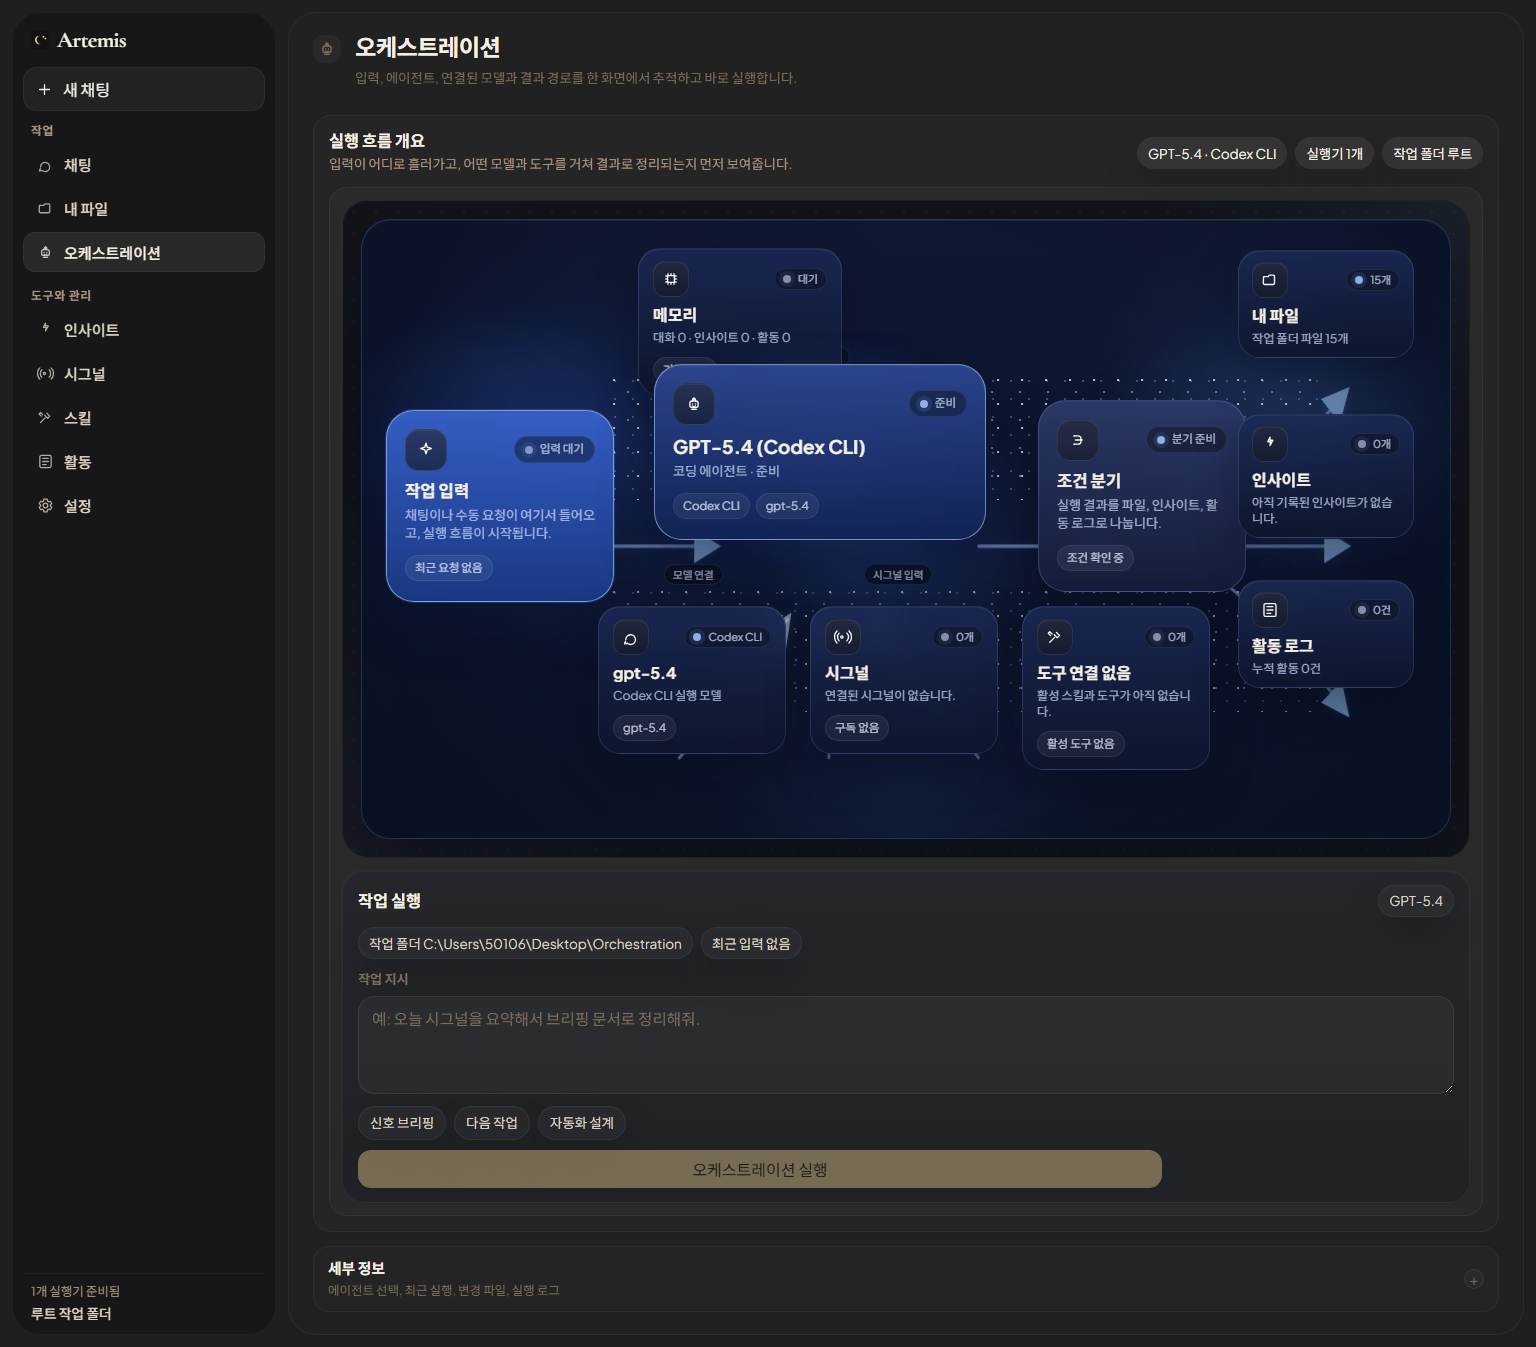
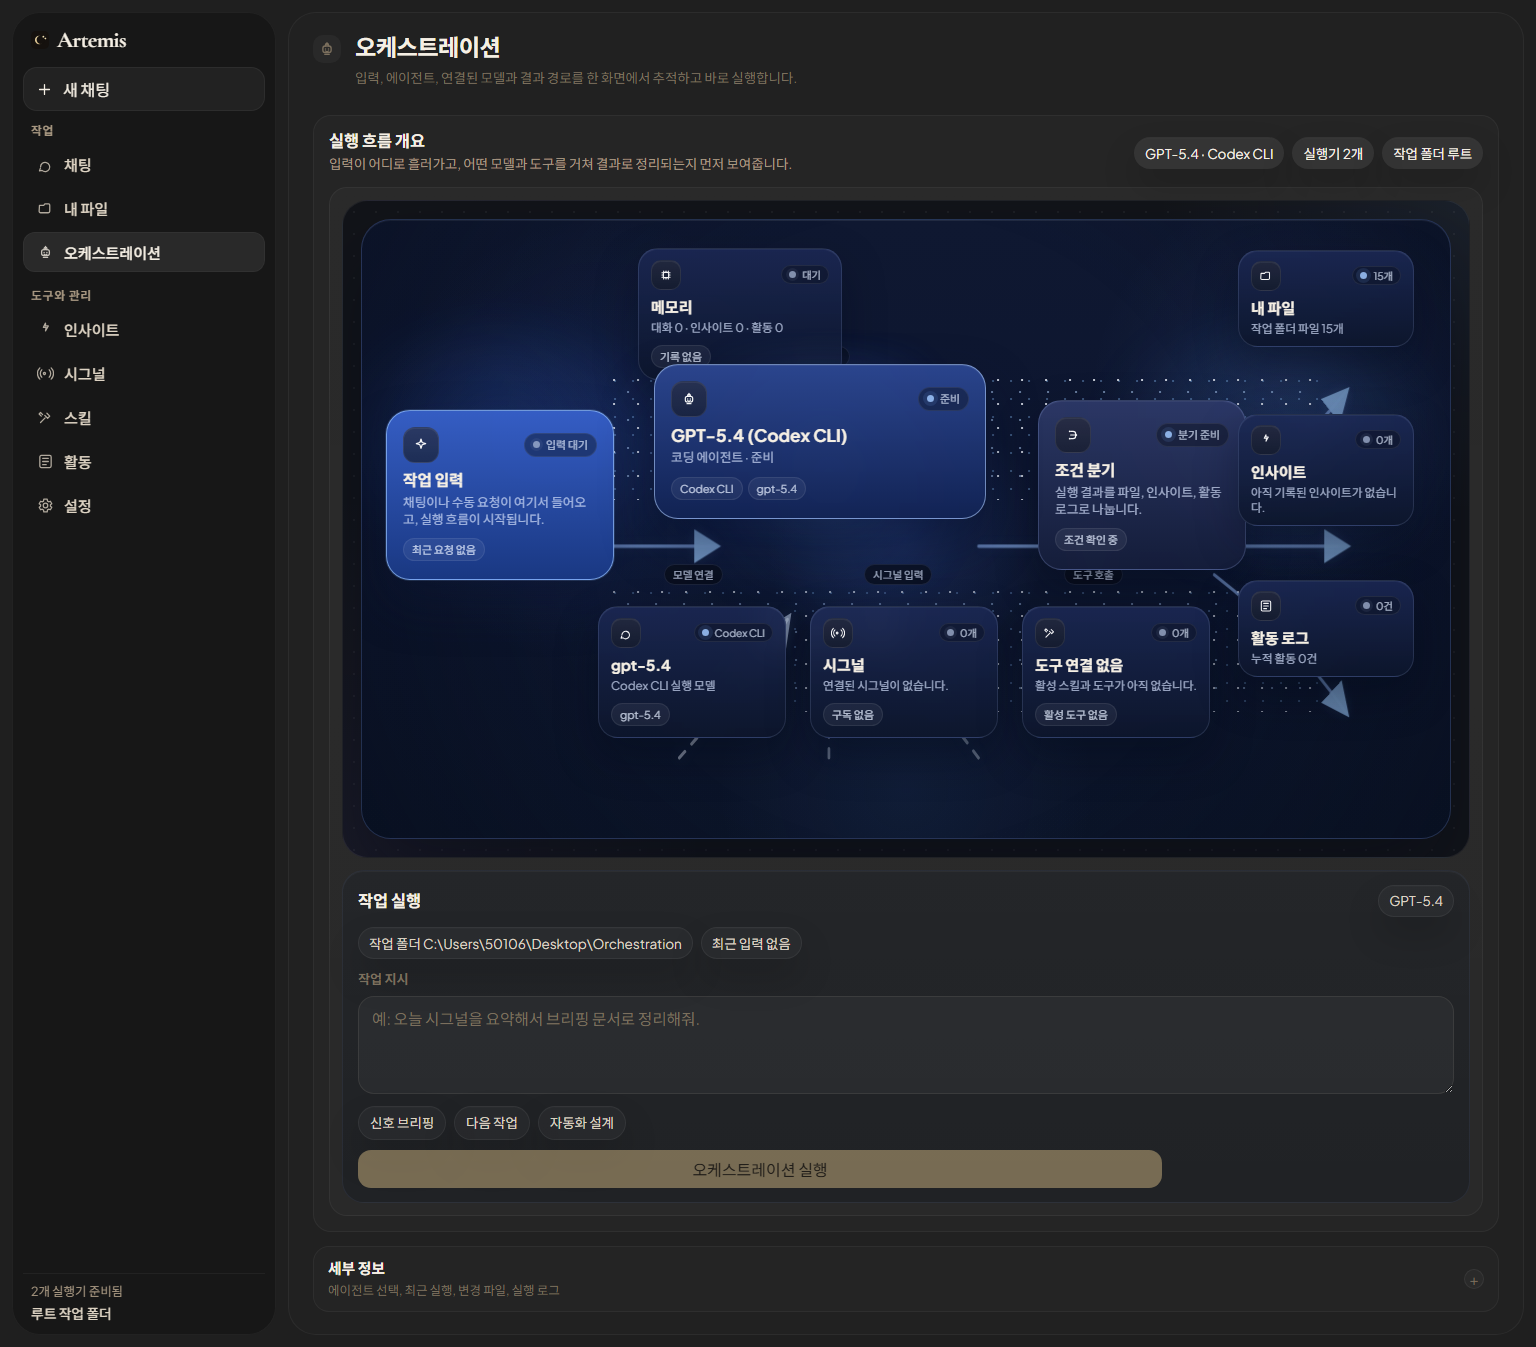
fix: restore ollama readiness and tighten orchestration visuals

diff --git a/src/App.css b/src/App.css
@@ -5031,19 +5031,19 @@ select:focus-visible {
 
 .flow-graph__node--main {
   min-height: 0;
-  padding: 18px 18px 20px;
-  border-radius: 28px;
+  padding: 16px 16px 18px;
+  border-radius: 24px;
 }
 
 .flow-graph__node--support,
 .flow-graph__node--output {
   min-height: 0;
-  padding: 12px 14px;
-  border-radius: 22px;
+  padding: 11px 12px;
+  border-radius: 20px;
 }
 
 .flow-graph__node--output {
-  padding: 11px 13px;
+  padding: 10px 12px;
 }
 
 .flow-graph__label {
@@ -5051,14 +5051,14 @@ select:focus-visible {
 }
 
 .flow-graph__nodeTop {
-  gap: 8px;
-  margin-bottom: 10px;
+  gap: 7px;
+  margin-bottom: 8px;
 }
 
 .flow-graph__iconWrap {
-  width: 42px;
-  height: 42px;
-  border-radius: 14px;
+  width: 36px;
+  height: 36px;
+  border-radius: 12px;
   border: 1px solid rgba(255, 255, 255, 0.08);
   background:
     linear-gradient(180deg, rgba(255, 255, 255, 0.08), rgba(255, 255, 255, 0.03)),
@@ -5069,9 +5069,9 @@ select:focus-visible {
 .flow-graph__badge {
   display: inline-flex;
   align-items: center;
-  gap: 7px;
-  padding: 6px 10px;
-  font-size: 0.72rem;
+  gap: 6px;
+  padding: 5px 8px;
+  font-size: 0.68rem;
   color: rgba(225, 235, 255, 0.72);
   border: 1px solid rgba(255, 255, 255, 0.08);
   background: rgba(7, 11, 21, 0.42);
@@ -5079,11 +5079,11 @@ select:focus-visible {
 }
 
 .flow-graph__statusDot {
-  width: 8px;
-  height: 8px;
+  width: 7px;
+  height: 7px;
   border-radius: 999px;
   background: rgba(174, 190, 220, 0.72);
-  box-shadow: 0 0 0 4px rgba(174, 190, 220, 0.08);
+  box-shadow: 0 0 0 3px rgba(174, 190, 220, 0.08);
 }
 
 .flow-graph__statusDot.is-ready {
@@ -5109,7 +5109,7 @@ select:focus-visible {
 .flow-graph__copy strong {
   display: -webkit-box;
   overflow: hidden;
-  font-size: 1.04rem;
+  font-size: 0.98rem;
   line-height: 1.2;
   -webkit-box-orient: vertical;
   -webkit-line-clamp: 1;
@@ -5118,36 +5118,36 @@ select:focus-visible {
 
 .flow-graph__node--support .flow-graph__copy strong,
 .flow-graph__node--output .flow-graph__copy strong {
-  font-size: 1rem;
+  font-size: 0.94rem;
   -webkit-line-clamp: 1;
 }
 
 .flow-graph__copy p {
   display: -webkit-box;
   overflow: hidden;
-  margin-top: 5px;
+  margin-top: 4px;
   color: rgba(211, 223, 249, 0.74);
-  font-size: 0.82rem;
-  line-height: 1.42;
+  font-size: 0.79rem;
+  line-height: 1.36;
   -webkit-box-orient: vertical;
   -webkit-line-clamp: 2;
 }
 
 .flow-graph__node--support .flow-graph__copy p,
 .flow-graph__node--output .flow-graph__copy p {
-  font-size: 0.76rem;
-  line-height: 1.34;
+  font-size: 0.73rem;
+  line-height: 1.3;
   -webkit-line-clamp: 2;
 }
 
 .flow-graph__details {
-  gap: 6px;
-  margin-top: 12px;
+  gap: 5px;
+  margin-top: 10px;
 }
 
 .flow-graph__detailChip {
-  padding: 5px 9px;
-  font-size: 0.72rem;
+  padding: 4px 8px;
+  font-size: 0.68rem;
   color: rgba(230, 238, 255, 0.78);
   border: 1px solid rgba(255, 255, 255, 0.08);
   background: rgba(255, 255, 255, 0.06);
@@ -5166,15 +5166,15 @@ select:focus-visible {
 
 .flow-graph__node--support .flow-graph__iconWrap,
 .flow-graph__node--output .flow-graph__iconWrap {
-  width: 36px;
-  height: 36px;
-  border-radius: 12px;
+  width: 30px;
+  height: 30px;
+  border-radius: 10px;
 }
 
 .flow-graph__node--support .flow-graph__badge,
 .flow-graph__node--output .flow-graph__badge {
-  padding: 4px 8px;
-  font-size: 0.68rem;
+  padding: 3px 7px;
+  font-size: 0.64rem;
 }
 
 .flow-graph__edgeLabel {
@@ -5309,7 +5309,7 @@ select:focus-visible {
 }
 
 .flow-graph__node--agent .flow-graph__copy strong {
-  font-size: 1.18rem;
+  font-size: 1.08rem;
 }
 
 @keyframes flowPulse {

diff --git a/src/OrchestrationCanvas.tsx b/src/OrchestrationCanvas.tsx
@@ -512,6 +512,7 @@ function GraphCard({
   onSelectAgent: (agentId: string) => void
 }) {
   const interactive = Boolean(node.page || node.agentId)
+  const iconSize = node.variant === 'main' ? 16 : 14
   const classes = [
     'flow-graph__node',
     `flow-graph__node--${node.tone}`,
@@ -546,7 +547,7 @@ function GraphCard({
       <small className="flow-graph__label">{node.label}</small>
       <div className="flow-graph__nodeTop">
         <span className="flow-graph__iconWrap" aria-hidden="true">
-          <Icon name={node.icon} size={18} />
+          <Icon name={node.icon} size={iconSize} />
         </span>
         <span className="flow-graph__badge">
           <span className={`flow-graph__statusDot is-${node.state}`} />

diff --git a/memory/decisions.md b/memory/decisions.md
@@ -4,13 +4,17 @@
 
 ### 2026-04-14
 
-- 이 저장소의 Hermes-style 운영은 네이티브 Hermes 설치를 가정하지 않고 `codex/ + memory/ + HERMES_CODEX.md` 구조로 재현한다.
+- 이 저장소는 Hermes를 설치한 척하지 않고 `codex/ + memory/ + HERMES_CODEX.md` 구조로 Hermes-style 운영을 재현한다.
 - 작업 루프는 항상 `inspect -> plan -> implement -> review -> verify -> update memory -> report`를 따른다.
-- 역할은 planner, implementer, reviewer, tester, memory_manager 5개로 고정한다.
-- 재사용 절차는 별도 스킬 문서로 관리한다.
-- persistent memory는 Git으로 추적되는 로컬 파일 `memory/`에 둔다.
-- 저장소 루트 `AGENTS.md`를 Hermes-style 진입 파일로 추가해 future Codex session의 시작 지침을 고정한다.
-- 오케스트레이션 화면은 데이터 구조를 유지하고 시각 계층만 강화한다.
-- 공개 소비자 웹 로그인 자동화는 구현하지 않는다.
-- 공식 API 라우팅 지원 공급자는 OpenRouter, NVIDIA Build, Gemini Developer API 3개만 유지한다.
-- 로컬 Ollama 모델은 `gemma4-E4B-uncensored-q4fast:latest` 1개만 유지한다.
+- 역할은 planner, implementer, reviewer, tester, memory_manager 다섯 개로 고정한다.
+- 지속 메모는 Git으로 추적되는 `memory/` 폴더에 저장한다.
+- 세션 진입 파일은 저장소 루트 `AGENTS.md`로 고정한다.
+- 공식 API 무료 라우팅 공급자는 OpenRouter, NVIDIA Build, Gemini Developer API 세 개만 지원한다.
+- 로컬 Ollama는 `gemma4-E4B-uncensored-q4fast:latest` 한 모델만 유지한다.
+- 오케스트레이션은 현재 저장소의 고정형 캔버스 구조를 유지하되, 시각 품질과 비율을 계속 보강한다.
+- 공개 랜딩보다 기존 Artemis 워크스페이스 UI를 우선한다.
+
+### 이번 추가 결정
+
+- Ollama 미연결처럼 보였던 문제는 로컬 모델 부재가 아니라 `4174 브리지 프로세스가 오래된 상태`였고, 브리지 재기동으로 해결한다.
+- 오케스트레이션 아이콘과 배지는 현재 그래프 경험을 해치지 않는 범위에서 한 단계 축소해 시각 밀도를 줄인다.

diff --git a/memory/project_overview.md b/memory/project_overview.md
@@ -1,40 +1,42 @@
 # Project Overview
 
-## 한 줄 설명
+## 프로젝트 설명
 
-Artemis Orchestration은 채팅, 로컬 파일 작업, 공식 API 라우팅, 시그널, 오케스트레이션 흐름을 한 화면 집합으로 묶는 로컬 중심 워크스페이스다.
+Artemis Orchestration은 채팅, 로컬 파일 작업, 공식 API 무료 라우팅, 오케스트레이션 시각화, 설정/메모 흐름을 한 화면 경험으로 묶는 Codex 기반 워크스페이스다.
 
 ## 현재 스택
 
 - 프런트엔드: React 19, TypeScript, Vite
-- 스타일: 단일 `src/App.css` 중심
-- 백엔드 브리지: `local-bridge/server.mjs`
-- 저장: SQLite 기반 브리지 저장소 + 로컬 상태 저장
+- 주요 스타일: `src/App.css`
+- 브리지 서버: `local-bridge/server.mjs`
+- AI 라우팅: `local-bridge/ai/`
+- 로컬 저장: SQLite 기반 브리지 저장소 + 프런트 상태 저장
 
 ## 핵심 경로
 
-- 워크스페이스 셸: `src/App.tsx`
-- 채팅/페이지 라우팅: `src/CrewPages.tsx`
+- 앱 셸: `src/App.tsx`
+- 워크스페이스 메인: `src/CrewPages.tsx`
 - 오케스트레이션 캔버스: `src/OrchestrationCanvas.tsx`
-- 설정: `src/pages/SettingsPage.tsx`
-- 로컬 브리지: `local-bridge/server.mjs`
-- AI 라우팅: `local-bridge/ai/`
+- 설정 화면: `src/pages/SettingsPage.tsx`
+- 브리지 서버: `local-bridge/server.mjs`
+- 공식 API 라우팅: `local-bridge/ai/`
 
-## 현재 지원 모델/공급자 원칙
+## 현재 모델/공급자 정책
 
 - 로컬 Ollama는 `gemma4-E4B-uncensored-q4fast:latest` 1개만 유지
-- 공식 API 라우팅은 아래 3개만 지원
+- 공식 API 공급자는 아래 3개만 지원
   - OpenRouter
   - NVIDIA Build
   - Gemini Developer API
 
-## 현재 운영 문서
+## 운영 문서
 
 - 세션 진입 지침: `AGENTS.md`
-- Codex Hermes 모드 진입: `HERMES_CODEX.md`
+- Hermes-style Codex 운영: `HERMES_CODEX.md`
 - 역할 정의: `codex/roles/`
 - 재사용 스킬: `codex/skills/`
 - 워크플로우 계약: `codex/workflow/contract.md`
+- 지속 메모: `memory/`
 
 ## 기본 실행 명령
 

diff --git a/memory/change_log.md b/memory/change_log.md
@@ -6,17 +6,21 @@
 
 - `codex/roles/`에 planner, implementer, reviewer, tester, memory_manager 역할 정의 추가
 - `codex/skills/`에 inspect_task, make_plan, safe_edit, run_verification, summarize_changes, update_memory 추가
-- `codex/workflow/contract.md`와 `codex/workflow/sample_task_flow.md` 추가
-- `HERMES_CODEX.md` 추가
-- `AGENTS.md` 추가
-- `memory/` 초기 파일 생성
-- `README.md`에 Hermes-style Codex 운영 구조 섹션 연결
-- 작업 루프에 `review`를 필수 게이트로 승격
-- 샘플 흐름을 `inspect -> planner -> implementer -> reviewer -> tester -> memory_manager -> final report`로 확장
+- `codex/workflow/contract.md`, `codex/workflow/sample_task_flow.md` 추가
+- `HERMES_CODEX.md`, `AGENTS.md` 추가
+- `memory/` 초기 파일 생성 및 README 연결
+- 작업 루프에 `review`를 필수 게이트로 고정
 
-### 기존 워크스페이스 상태
+### 기존 워크스페이스 정리
 
-- 공식 API 무료 라우팅과 기존 Artemis UI는 유지
-- 오케스트레이션 화면은 중심 허브형 시각 구조로 재정리
-- 결과 노드 3개가 캔버스 밖으로 밀리던 문제를 수정
-- 출력 노드의 세부 칩을 제거해 중앙 허브 집중도를 높임
+- 공식 API 무료 라우팅과 기존 Artemis UI 흐름 통합
+- 오케스트레이션을 중앙 허브형 시각 구조로 재정리
+- 결과 노드가 캔버스 밖으로 밀리던 문제 수정
+- 출력 노드 정보칩 제거로 오른쪽 과밀 완화
+
+### 이번 추가 수정
+
+- 오케스트레이션 아이콘, 배지, 디테일칩 비율 축소
+- 문서용 오케스트레이션 스크린샷 최신화
+- `4174` 브리지 재기동으로 Ollama 상태 복구
+- 브리지 헬스 기준으로 Ollama `gemma4-E4B-uncensored-q4fast:latest` 준비 상태 확인

diff --git a/memory/open_questions.md b/memory/open_questions.md
@@ -2,18 +2,18 @@
 
 ## 현재 가정
 
-- 마스터는 기존 Artemis 워크스페이스를 유지한 채 Codex 운영 체계를 강화하길 원한다.
-- 새 운영 구조는 문서와 로컬 파일 중심으로 두는 편이 현재 저장소에 가장 안전하다.
-- 공개 마케팅 페이지는 지금 주 경로가 아니므로, 우선순위를 워크스페이스 UI에 둔다.
+- 마스터는 공개 랜딩보다 기존 Artemis 워크스페이스 품질을 우선한다.
+- Hermes-style 운영 구조는 문서와 메모 파일 중심으로 유지하고, 과한 프레임워크는 추가하지 않는다.
+- 로컬 Ollama는 단일 모델 체제로 계속 유지한다.
 
-## 아직 미확인
+## 아직 미확정
 
-- Google 로그인 운영 키가 실제로 연결될지 여부
-- OpenRouter / NVIDIA Build / Gemini 실키 기준의 최종 스트리밍 품질
-- 공개 페이지를 다시 메인 진입으로 살릴지 여부
+- Google 로그인 운영 키를 실제로 연결할지 여부
+- OpenRouter / NVIDIA Build / Gemini 실키를 넣어 최종 스트리밍 검증까지 진행할지 여부
+- 공개 마케팅 페이지를 완전히 제거할지, 비노출 상태로 유지할지 여부
 
-## 다음에 판단할 문제
+## 다음에 확인할 문제
 
-- 오케스트레이션 화면에 실행 이력 패널을 얼마나 노출할지
-- Hermes-style 운영 구조를 UI 가이드 화면까지 노출할지
-- `AGENTS.md`와 `HERMES_CODEX.md`를 둘 다 유지할지, 추후 하나로 축약할지
+- 오케스트레이션 실행 도크를 더 얇은 하단 바 형태로 바꿀지
+- 설정 화면의 아이콘/칩 비율을 한 번 더 눌러야 하는지
+- 채팅 화면의 라우팅 메타를 더 줄일지 여부

diff --git a/memory/current_focus.md b/memory/current_focus.md
@@ -2,20 +2,21 @@
 
 ## 현재 우선순위
 
-1. 워크스페이스 전체를 더 간결하고 읽히는 구조로 유지
-2. 오케스트레이션 화면을 중심 허브형 시각 구조로 안정화
-3. 설정과 채팅에서 공급자/모델 흐름을 덜 헷갈리게 정리
-4. Hermes-style Codex 운영 구조를 실제 세션 진입점과 메모 체계에 고정
+1. 기존 Artemis 워크스페이스를 더 간결하고 읽기 쉬운 구조로 정리
+2. 오케스트레이션 화면의 비율, 아이콘 크기, 시각 밀도 안정화
+3. 설정/채팅에서 공급자와 로컬 실행기 상태를 헷갈리지 않게 설명
+4. Hermes-style Codex 운영 구조와 메모 체계를 실전 세션에서 유지
 
 ## 이번 세션 목표
 
-- Hermes-style Codex 운영 구조를 저장소 안에 실제 파일로 추가하고 진입 지침까지 연결
-- `inspect -> plan -> implement -> review -> verify -> update memory -> report` 루프를 문서 전반에 일관되게 고정
-- 오케스트레이션 캔버스의 비율, 광원, 링크, 아이콘, 미세 모션을 개선하고 결과 노드 잘림을 제거
+- 오케스트레이션 아이콘과 배지를 축소하고 가독성을 높인다.
+- Ollama 로컬 연결 상태를 실제 브리지/모델 기준으로 복구하고 검증한다.
+- 최신 상태를 메모와 스크린샷에 반영한 뒤 깃허브 브랜치까지 정리한다.
 
-## 다음 세션이 바로 확인할 것
+## 다음 세션에서 바로 확인할 것
 
 - `AGENTS.md`
 - `HERMES_CODEX.md`
 - `memory/current_focus.md`
 - `memory/open_questions.md`
+- `docs/screenshots/orchestration.png`
